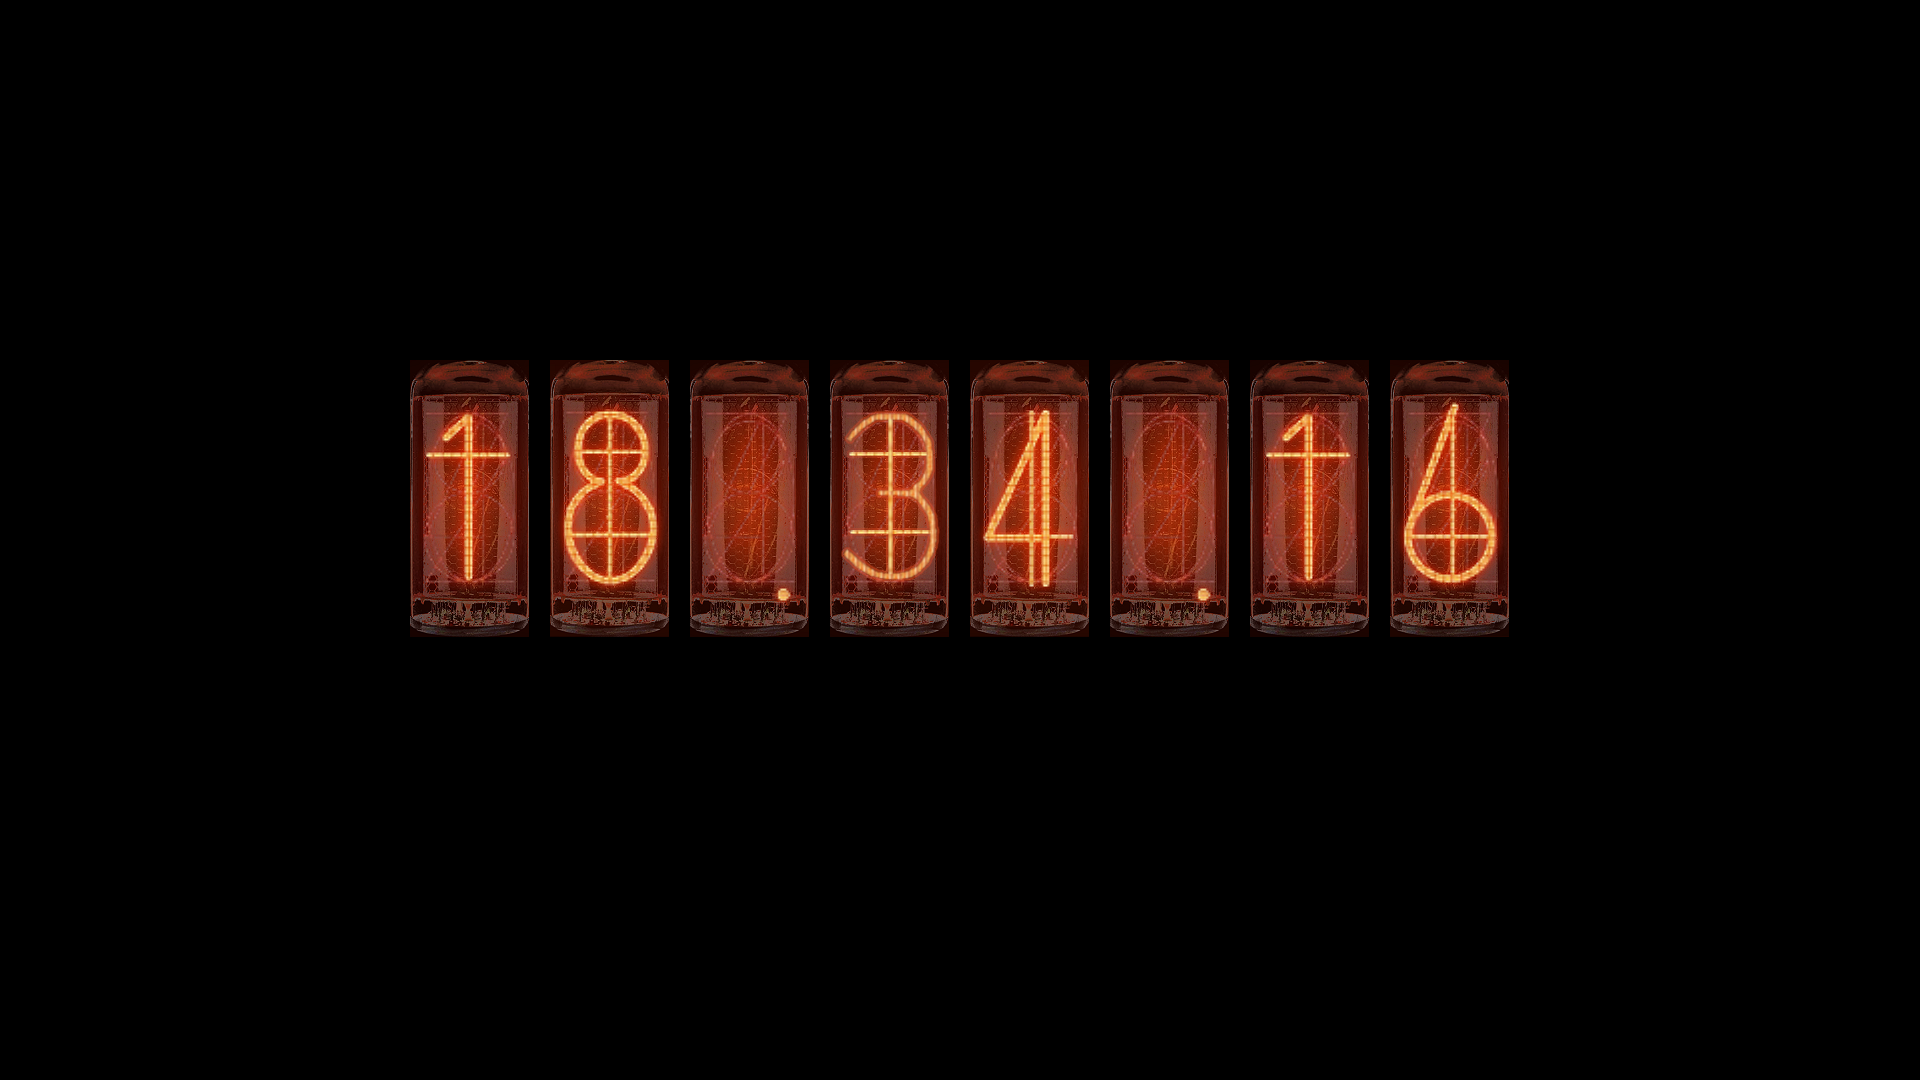
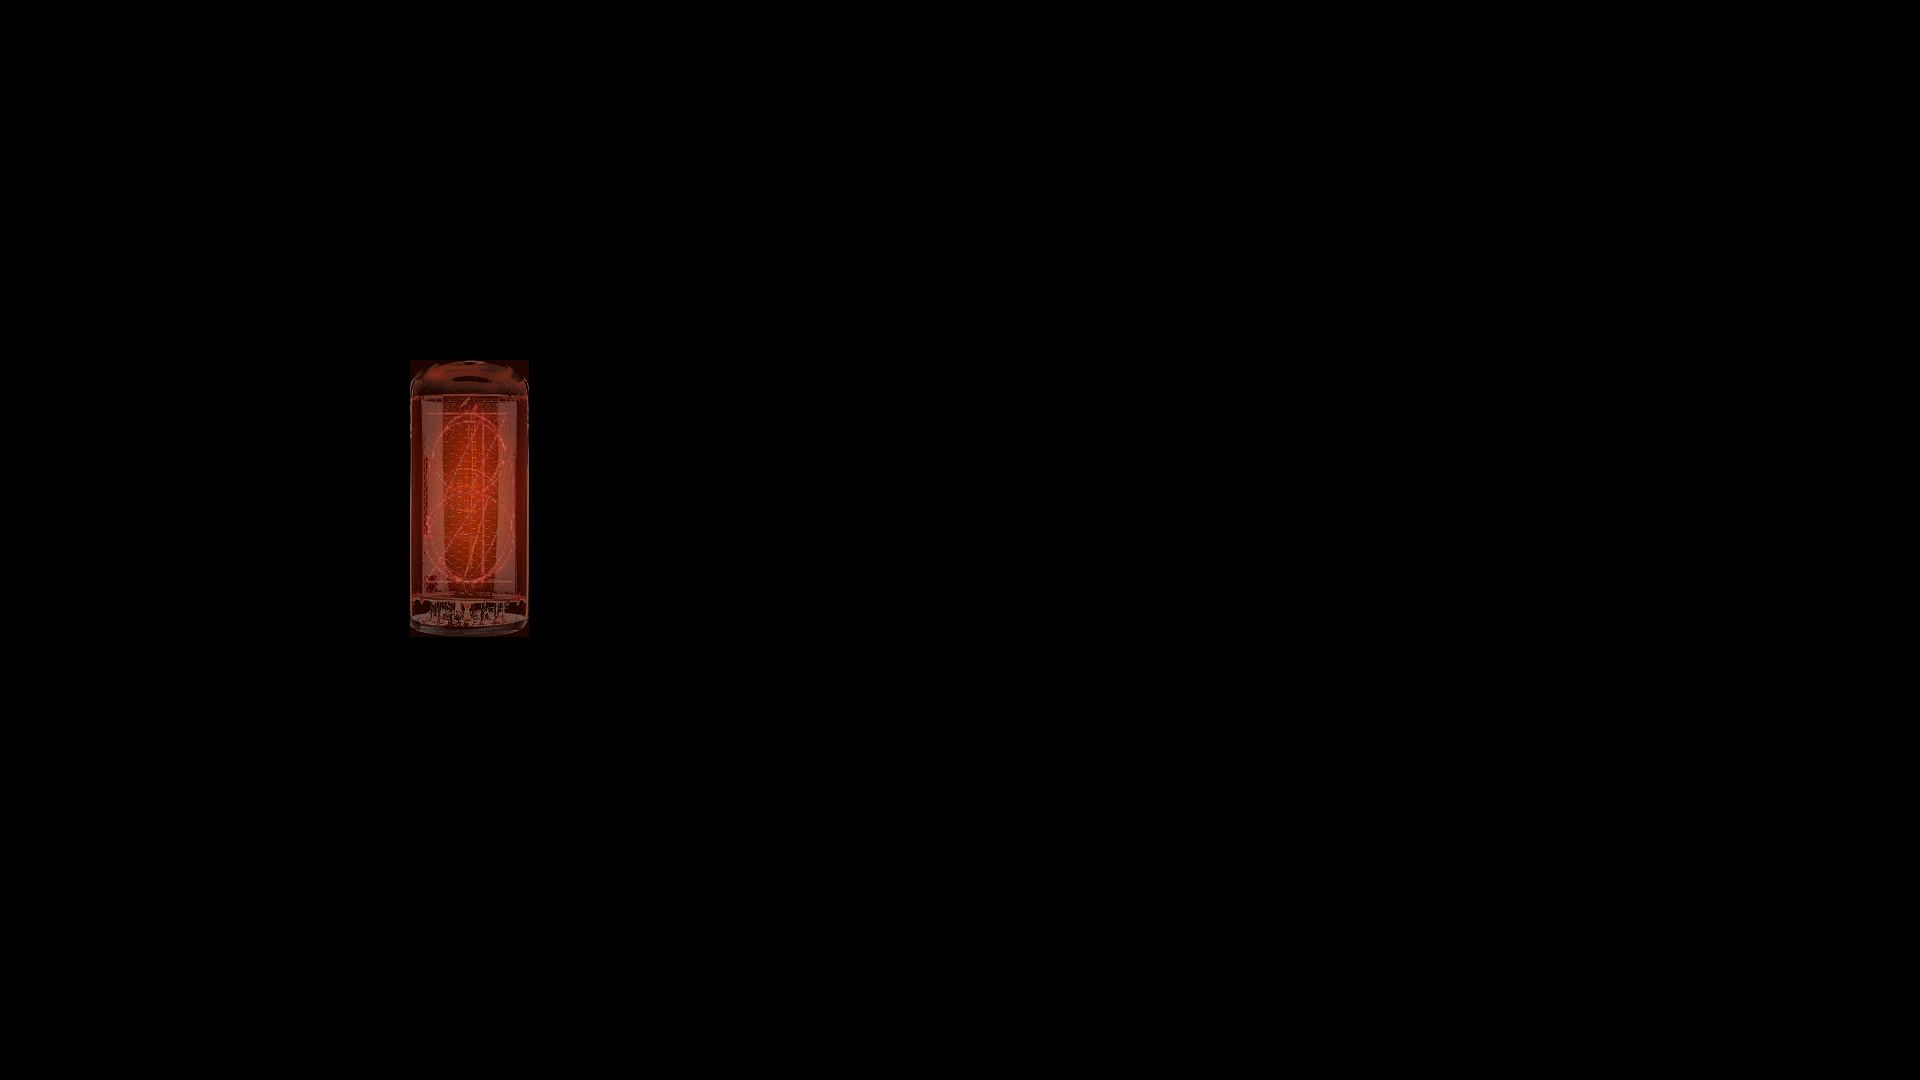
imagemagick saatu toimimaan linuxilla

Changed region(s): [[0.2188, 0.3361, 0.8125, 0.6111]]

diff --git a/nixie-clock.cpp b/nixie-clock.cpp
@@ -1,18 +1,18 @@
 #include <iostream>
 #include <ctime>		//For getting time
-#include <windows.h>	//For changing wallpaper
-//#include <stdlib.h>	//For linux cmd to use a cmd command to change wallpaper
-#include "C:\Program Files\ImageMagick-7.1.0-Q16-HDRI\include\Magick++.h" //<Magick++.h>	//For editing the image
+//#include <windows.h>	//For changing wallpaper
+#include <stdlib.h>	//For linux cmd to use a cmd command to change wallpaper
+#include <Magick++.h> //"C:\Program Files\ImageMagick-7.1.0-Q16-HDRI\include\Magick++.h"	//For editing the image
 //Ok... Tuolla se tunnistaa sen. Mutta imagemagick kansioissa ne header tiedostojen polut vaikuttaa olevan väärin laitetut. Jos niitä alkaa muuttaa, ongelma katoaa ja siirtyy seuraavaan. Mutta niitä on niin paljon, että turha aloittaa sellaista.
 //#include <chrono>		//Not necessary probably
 
-//using namespace Magick;
+using namespace Magick;
 using namespace std;
 
-int main(int /*argc*/,char **argv) { //arguments are for imagemagick, not sure if necessary
+int main(/*int argc,char **argv*/) { //arguments are for imagemagick, not sure if necessary
 	
 	//Initialize imagemagick (not sure if necessary)
-	InitializeMagick('C:\Program Files\ImageMagick-7.1.0-Q16-HDRI'); //*argv //C:\Program Files\ImageMagick-7.1.0-Q16-HDRI\include
+	//InitializeMagick(*argv); //C:\Program Files\ImageMagick-7.1.0-Q16-HDRI\
 	
 	//GET TIME - Move this to a different script?
 	time_t currentTime;
@@ -42,20 +42,21 @@ int main(int /*argc*/,char **argv) { //arguments are for imagemagick, not sure i
 	
 	//Construct the image object
 	Image image;
+	Image clocknum;
 	
 	try {
-		//Read a file into image object
-		image.read("pics/bg.png");
 		
-		//Do things
+		//Read a file into image object
+		image.read("pics/bg.png");			//Background image
+		clocknum.read("pics/blank.png");	//Nixie tube (clock number)
 		
 		//Vars
-		int x = 410; //xoffset?
-		int y = 360; //yoffset?
-		int imgNum = 0; //image number
-		
+		int x = 410; 	//image x position
+		int y = 360; 	//image y position
+		int imgNum = 0;	//image number
+
 		//Testing
-		image.composite("blank.png",x,y,OverCompositeOp);
+		image.composite(clocknum,x,y,OverCompositeOp);
 		
 		/*if (get_digit_count(hour)) == 1) { //If there is only one digit in the hours?
             //image.composite(image_to_overlay, xoffset, yoffset, OverCompositeOp)?
@@ -84,10 +85,10 @@ int main(int /*argc*/,char **argv) { //arguments are for imagemagick, not sure i
 		*/
 		
 		//Write the image to a file
-		image.write("final.png");
+		image.write("pics/final.png");
 		
 	}
-	catch(Exception %error_) {
+	catch(Exception &error_) {
 		cout << "Caught exception: " << error_.what() << "\n";
 		return 1;
 	}
@@ -95,7 +96,7 @@ int main(int /*argc*/,char **argv) { //arguments are for imagemagick, not sure i
 	
 	//SET WALLPAPER
 	
-	//In windows
+	/*/In windows
     const wchar_t *path = L"pics\final.png";
     int result;
     result = SystemParametersInfoW(SPI_SETDESKWALLPAPER, 0, (void *)path, SPIF_UPDATEINIFILE);
@@ -104,11 +105,11 @@ int main(int /*argc*/,char **argv) { //arguments are for imagemagick, not sure i
 		cout << "Changed wallpaper successfully" << "\n";
 	}else{
 		cout << "Could not change wallpaper" << "\n";
-	}
+	}*/
 	
 	//In gnome (linux) (change the file location)
-	//system(gsettings set org.gnome.desktop.background picture-uri file:////usr/share/backgrounds/ubuntu-default-greyscale-wallpaper.png)
-	
+	//system(gsettings set org.gnome.desktop.background picture-uri 'file:////usr/share/backgrounds/ubuntu-default-greyscale-wallpaper.png');
+	cout << "Set wallpaper";
 	
 	return 0;
 	
@@ -123,3 +124,5 @@ int get_digit_count(int number) {
    }
    return count;
 }
+
+//g++ nixie-clock.cpp `Magick++-config --cxxflags --cppflags --ldflags --libs`
